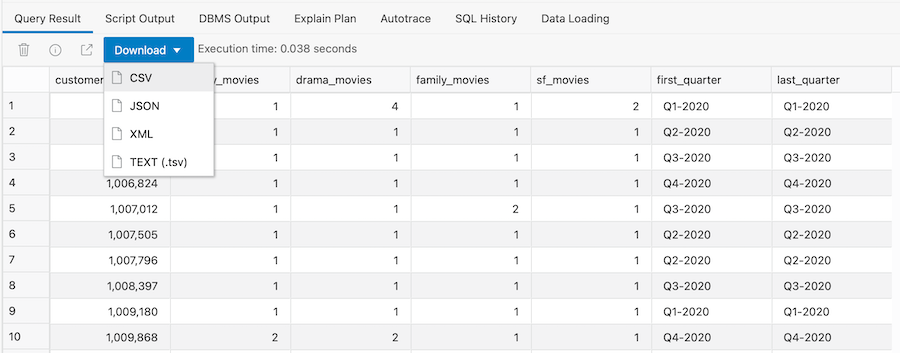
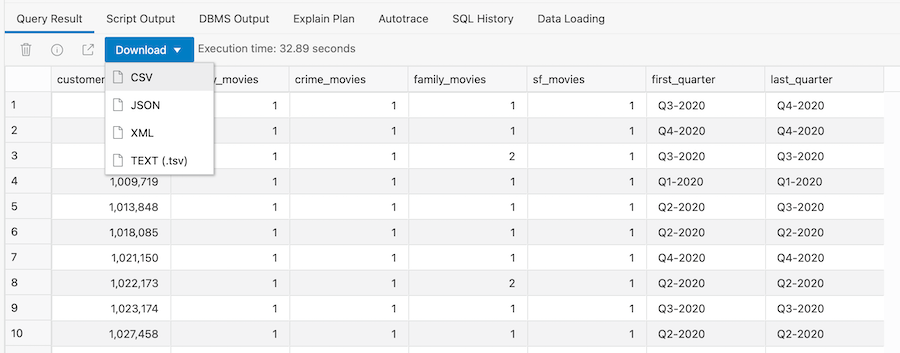
Updates

diff --git a/Workshops/movie-stream-story/working-with-semi-structured-data/working-with-semi-structured-data.md b/Workshops/movie-stream-story/working-with-semi-structured-data/working-with-semi-structured-data.md
@@ -47,8 +47,90 @@ This is in a format known as JSON and you can see that it is organized very diff
 
 Let's build a query for the marketing team that ranks each writer based on the amount of revenue for each film where they were involved, and look for writers who have suddenly had big hits in 2020 compared to other years. This would allow us to create promotion campaigns to bring attention to their earlier movies.
 
+## STEP 1 - Preparing The Data Warehouse Schema
 
-## STEP 1  - Loading JSON Movie Data
+If you have already completed the lab **Analyzing Movie Sales Data** then you can skip this step since this is a repitition of Step 1 in that lab. Jump straight to the next step, Step 2.
+
+The MovieStream data warehouse uses an design approach called a 'star schema'. A star schema is characterized by one or more very large fact tables that contain the primary information in the data warehouse and a number of much smaller dimension tables (or lookup tables), each of which contains information about the entries for a particular attribute in the fact table.
+
+ ![A simple data warehouse star schema.](https://docs.oracle.com/cd/A87860_01/doc/server.817/a76994/schemasa.gif)
+
+The main advantages of star schemas are that they:
+<ul>
+<li>Provide a direct and intuitive mapping between the business entities being analyzed by end users and the schema design.</li>
+<li>Provides highly optimized performance for typical data warehouse queries.</li>
+</ul>
+
+
+One of the key dimensions in the MovieStream data warehouse is **TIME**. Currently the time dimension table has a single column containing just the ids for each day. When doing type data warehouse analysis there is a need to view data across different levels within the time dimension such as week, month, quarter and year. Therefore we need to expand the current time dimension to include these additional levels. 
+
+1. View the time dimension table.
+
+
+    ```
+    <copy>
+    SELECT
+    *  
+    FROM times;</copy>
+    ```
+
+
+**NOTE** The TIMES dimension table has a typical calendar hierarchy where days aggregate to weeks, months, quarters and years.
+
+Querying a data warehouse can involve working with a lot of repetitive SQL. This is where 'views' can be very helpful and very powerful. The code below is used to simplify the queries used throughout this workshop. The main focus here is to introduce the concept of joining tables together to returned a combined resultset.
+
+The code below uses a technique called **INNER JOIN** to join the dimension tables to the fact table.
+
+
+2. Creating a view that joins the GENRE, CUSTOMER and TIME dimension tables with the main fact table CUSTSALES.
+
+    ```
+    <copy>CREATE OR REPLACE VIEW vw_movie_sales_fact AS
+    SELECT 
+    m.day_id,
+    t.day_name,
+    t.day_dow,
+    t.day_dom, 
+    t.day_doy,
+    t.week_wom,
+    t.week_woy,
+    t.month_moy,
+    t.month_name,
+    t.month_aname,  
+    t.quarter_name,  
+    t.year_name,  
+    c.cust_id as customer_id,
+    c.state_province,
+    c.country,
+    c.continent,
+    g.name as genre,
+    m.app,
+    m.device,
+    m.os,
+    m.payment_method,
+    m.list_price,
+    m.discount_type,
+    m.discount_percent,
+    m.actual_price,
+    m.genre_id,
+    m.movie_id
+    FROM custsales m 
+    INNER JOIN times t ON m.day_id = t.day_id 
+    INNER JOIN customer c ON m.cust_id = c.cust_id
+    INNER JOIN genre g ON m.genre_id = g.genre_id;
+    </copy>
+    ```
+There are lots of different types of joins that can be used within a SQL query to combine rows from one table with rows in another table. Typical examples are: 
+
+### A) INNER JOIN
+An inner join, which is sometimes called a simple join, is a join of two or more tables that returns only those rows that satisfy the join condition. In the example above, only rows in the sales fact table will be returned where a corresponding row for day existings in the time dimension table and a corresponding row exists in the customer dimension table and a corresponding row exists in the genre dimension table.
+
+### B) OUTER JOIN
+An outer join extends the result of a simple join. An outer join returns all rows that satisfy the join condition and also returns some or all of those rows from one table for which no rows from the other satisfy the join condition. This join technique is often used with time dimension tables since you wil typically want to see all months or all quarters within a given year even if there were no sales for a specific time period. There is an example of this type of join in the next step.
+
+
+
+## STEP 2  - Loading JSON Movie Data
 
 In the previous labs of this workshop, we have loaded the data we want to use into our data warehouse. Autonomous Data Warehouse also allows you to leave your data in the Object Store and query it directly without having to load it first. This uses a feature called an External Table. There is a whole chapter on this topic in the documentation, [see here](https://docs.oracle.com/en/cloud/paas/autonomous-database/adbsa/query-external.html#GUID-ABF95242-3E04-42FF-9361-52707D14E833), which explains all the different types of file formats (including JSON) that are supported. 
 
@@ -171,7 +253,7 @@ Although queries on external data will not be as fast as queries on database tab
 
     As you can see, the data is shown in its native JSON format, i.e. there are no columns in the table for each identifier (movie_id, sku, list price, and so on). So how can we query this table if there is only one column? 
 
-## STEP 2 - A Simple Query Over JSON Data
+## STEP 3 - A Simple Query Over JSON Data
 
 1. As a first step, let's show you how to query  JSON data using SQL. We can use special notation within our SQL query to convert the content above into a more normal looking table containing columns and rows. This approach is known as Simple Dot Notation and it looks very similar to the way we have constructed previous queries. Here is our first query which you can run in your SQL Worksheet:
 
@@ -215,7 +297,7 @@ Although queries on external data will not be as fast as queries on database tab
 
 Now let's try using some more advanced features that will allow us to convert the list of cast members and crew members into rows and columns of data. These can then be joined with our movie sales data, allowing us to combine unstructured movie JSON data with our structured movie sales data.
 
-## STEP 3 -  Simplifying JSON Queries
+## STEP 4 -  Simplifying JSON Queries
 
 Your Autonomous Data Warehouse includes a number of helper packages that can simplify access to your JSON data. The **JSON_TABLE** function can be used to automatically translate JSON data into a row-column format so you can query the JSON data in exactly the same way as our movie sales data.
 
@@ -283,7 +365,7 @@ Your Autonomous Data Warehouse includes a number of helper packages that can sim
 
 We can now use this view as the launch point for doing more analysis!
 
-## STEP 4 -  Building A More Sophisticated JSON Query
+## STEP 5 -  Building A More Sophisticated JSON Query
 
 In this query, we are using the **JSON_TABLE** function again, to convert our JSON data into a more natural row-column resultset.
 
@@ -304,20 +386,9 @@ In this query, we are using the **JSON_TABLE** function again, to convert our JS
 
     ![Query results showing directors for each movie](images/sql-analytics-lab5-step4-substep2.png)
 
-## STEP 5 - Combining JSON Data And Relational Data
+## STEP 6 - Combining JSON Data And Relational Data
 
-1. Assuming we want to know how much revenue each movie made in each of the years when it was available, we can use a much simpler query, somthing like this:
-
-    ```
-    SELECT
-    movie_id,
-    year,
-    sum(ACTUAL_PRICE) as revenue
-    FROM movie_sales_fact
-    GROUP BY movie_id, year;
-    ```
-
-2. If we combine this result set with the previous query against our JSON data, we can see the total revenue by year for each movie director and find the top 5 movie directors within each year. To do this, we can create a query that joins the JSON data set with our movie sales fact table via the `movie_id` column. Run this query in your SQL Worksheet:
+1. If we combine this result set with the previous query against our JSON data, we can see the total revenue by year for each movie director and find the top 5 movie directors within each year. To do this, we can create a query that joins the JSON data set with our movie sales fact table via the `movie_id` column. Run this query in your SQL Worksheet:
 
     ```
     <copy>SELECT
@@ -325,47 +396,47 @@ In this query, we are using the **JSON_TABLE** function again, to convert our JS
     jt.title,
     jt.job,
     jt.crew,
-    f.year,
-    sum(f.actual_price) as revenue
-    FROM movie_sales_fact f, json_movie_view jt
+    f.year_name,
+    SUM(f.actual_price) as revenue
+    FROM vw_movie_sales_fact f
+    JOIN json_movie_view jt ON jt.movie_id = f.movie_id 
     WHERE jt.job = 'director'
-    AND f.year = 2020
-    AND jt.movie_id = f.movie_id
-    GROUP BY jt.movie_id, jt.title, jt.job, jt.crew, f.year
+    AND f.year_name = 2020
+    GROUP BY jt.movie_id, jt.title, jt.job, jt.crew, f.year_name
     ORDER BY 6 desc;</copy>
     ```
 
-3. the output will be shown in the Query Result window:
+2. the output will be shown in the Query Result window:
 
-    ![Query result of combining queries](images/sql-analytics-lab5-step5-substep3.png)
+    ![Query result of combining queries](images/lab-9-step-5-substep-2.png)
 
-## STEP 6 - Ranking Directors Based On Quarterly Movie Revenue
+## STEP 7 - Ranking Directors Based On Quarterly Movie Revenue
 
 1. We can extend the query by adding a ranking calculation, broken out by quarter within each year, to determine how much each director's films contributed to MovieStream's overall revenue. Note that we are reusing techniques from the previous lab, specifically SQL's window functions. The last column ranks each director based on the annual revenue of his or her movies.
 
     ```
     <copy>SELECT
-    f.year,
+    f.year_name,
     f.quarter_name,
     jt.movie_id,
     jt.title,
     jt.job,
     jt.crew,
-    sum(f.actual_price) as revenue,
-    RANK() OVER (PARTITION BY f.quarter_name order by sum(f.actual_price) desc) as rank_rev
-    FROM movie_sales_fact f, json_movie_view jt
+    SUM(f.actual_price) AS revenue,
+    RANK() OVER (PARTITION BY f.quarter_name ORDER BY SUM(f.actual_price) desc) as rank_rev
+    FROM vw_movie_sales_fact f
+    JOIN json_movie_view jt ON jt.movie_id = f.movie_id
     WHERE jt.job = 'director'
-    AND f.year= 2020
-    AND jt.movie_id = f.movie_id
-    GROUP BY f.year, f.quarter_name, jt.movie_id, jt.title, jt.job, jt.crew
+    AND f.year_name = 2020
+    GROUP BY jt.movie_id, jt.title, jt.job, jt.crew, f.year_name, f.quarter_name
     ORDER BY 1,2,7 desc;</copy>
     ```
 
 2. The results should show that our top grossing directors in Q1 were Jennifer Lee and Chris Buck with the film Frozen II:
 
-    ![Query result showing top grossing directors](images/sql-analytics-lab5-step6-substep2.png)
+    ![Query result showing top grossing directors](images/lab-9-step-6-substep-2.png)
 
-## STEP 7 - Finding The Top 5 Directors Based On Revenue
+## STEP 8 - Finding The Top 5 Directors Based On Revenue
 
 1. The final part of this query is to add a filter so it only returns the top 5 directors in each quarter:
 
@@ -394,7 +465,7 @@ In this query, we are using the **JSON_TABLE** function again, to convert our JS
 
 2. This should return the following results:
 
-    ![Query result returning top 5 directors in each year](images/sql-analytics-lab5-step7-substep2.png)
+    ![Query result returning top 5 directors in each year](images/lab-9-step-7-substep-2.png)
 
 ## Recap
 
@@ -412,4 +483,4 @@ Please *proceed to the next lab*.
 
 - **Author** - Keith Laker, ADB Product Management
 - **Adapted for Cloud by** - Richard Green, Principal Developer, Database User Assistance
-- **Last Updated By/Date** - Keith Laker, July 2021
+- **Last Updated By/Date** - Keith Laker, August 3, 2021

diff --git a/Workshops/movie-stream-story/targeting-customers/targeting-customers.md b/Workshops/movie-stream-story/targeting-customers/targeting-customers.md
@@ -151,7 +151,7 @@ Now that we understand how our pattern matching query is working, we can extend 
     AND FIRST(family.quarter_name) = LAST(family.quarter_name)
     ```
 
-**Note:** We are defining "family-related" genres as comedy, crime and drama as you can see in the above definition. The above means we are now looking for rows with at least one comedy movie, at least one drama movie and at least one family movie within a given quarter. Essentially we are looking for a specific pattern of movie streaming.
+**Note:** We are defining "family-related" genres as comedy, crime and drama as you can see in the above definition. The above means we are now looking for rows with at least one comedy movie, a crime movie and at least one family movie within a given quarter. Essentially we are looking for a specific pattern of movie streaming.
 
 1. If we insert the above into our first pattern matching query, we can then paste the following code into our SQL Worksheet:
 
@@ -167,17 +167,17 @@ Now that we understand how our pattern matching query is working, we can extend 
     last(family.quarter_name) AS last_quarter,
     count(movie_id) AS count_movies
     ALL ROWS PER MATCH
-    PATTERN (comedy+ drama family+)
+    PATTERN (comedy+ crime family+)
     DEFINE
     comedy as genre = 'Comedy',
-    drama as genre = 'Drama',
+    crome as genre = 'Crime',
     family as genre = 'Family'
     AND family.quarter_name = LAST(comedy.quarter_name)
     ) mr
     order by mr.customer_id, match_number;</copy>
     ```
 
-2. This returns around 14,718 customers:
+2. This returns around 2,765 customers:
 
 Before we do any more work on this query, we should check-in with our marketing team to see if this number is within the range they were expecting.
 
@@ -185,14 +185,14 @@ Before we do any more work on this query, we should check-in with our marketing 
 
 A quick Zoom call with the marketing team reveals that they are really pleased to have the list of customers so quickly! However, they think the list needs more tweaking. Ideally, they want to target a much smaller list of customers with the first round of this campaign and they need to find customers who like sci-fi movies! So we need to identify only those customers that have more than a *specific* interest in watching family-related movies, but also like to watch sci-fi movies! 
 
-How can you adapt the previous query to pick out those customers that really enjoy family and sci-fi movies?  All we need to do is tweak our pattern statement! This means our pattern definition will now look like this:
+How can you adapt the previous query to pick out those customers that really enjoy family style movies and sci-fi movies?  All we need to do is tweak our pattern statement! This means our pattern definition will now look like this:
 
 
     ```
-    PATTERN (comedy+ drama+ family+ horror scifi+)
+    PATTERN (comedy+ crime family+ scifi+)
     DEFINE
     comedy as genre = 'Comedy',
-    drama as genre = 'Drama',
+    crime as genre = 'Crime',
     family as genre = 'Family',
     AND family.quarter_name = LAST(comedy.quarter_name)
     scifi as genre = 'Sci-Fi'
@@ -218,7 +218,7 @@ How can you adapt the previous query to pick out those customers that really enj
     );</copy>
     ```
 
-2. The answer is 424. This should be more in line with what the marketing team is expecting so they can run a quick test campaign to gauge the level of feedback.
+2. The answer is 314. This should be more in line with what the marketing team is expecting so they can run a quick test campaign to gauge the level of feedback.
 
 
 3. To help them validate this smaller list of customers, we will add some additional information into our results by showing whether a movie was matched by our pattern as a family or sci-fi movie (this is shown in the **`classifier`** column.)
@@ -227,7 +227,7 @@ How can you adapt the previous query to pick out those customers that really enj
     <copy>SELECT
     customer_id,
     comedy_movies,
-    drama_movies,
+    crime_movies,
     family_movies,
     sf_movies,
     first_quarter,
@@ -239,14 +239,14 @@ How can you adapt the previous query to pick out those customers that really enj
     first(family.quarter_name) AS first_quarter,
     last(scifi.quarter_name) AS last_quarter,
     count(comedy.movie_id) AS comedy_movies,
-    count(drama.movie_id) AS drama_movies,
+    count(crime.movie_id) AS crime_movies,
     count(family.movie_id) AS family_movies,
     count(scifi.movie_id) AS sf_movies
     ONE ROW PER MATCH
-    PATTERN (comedy+ drama+ family+  scifi+),
+    PATTERN (comedy+ crime family+  scifi+)
     DEFINE
     comedy as genre = 'Comedy',
-    drama as genre = 'Drama',
+    crime as genre = 'Crime',
     family as genre = 'Family'
     AND family.quarter_name = LAST(comedy.quarter_name),
     scifi as genre = 'Sci-Fi'
@@ -344,14 +344,14 @@ In this context, we need to search the column genre for a specific string such a
     first(family.quarter_name) AS first_quarter,
     last(scifi.quarter_name) AS last_quarter,
     count(comedy.movie_id) AS comedy_movies,
-    count(drama.movie_id) AS drama_movies,
+    count(crime.movie_id) AS crime_movies,
     count(family.movie_id) AS family_movies,
     count(scifi.movie_id) AS sf_movies
     ONE ROW PER MATCH
-    PATTERN (comedy+ drama+ family+  scifi+ quarter)
+    PATTERN (comedy+ crime family+  scifi+ quarter)
     DEFINE
     comedy AS INSTR(genre, 'Comedy',1,1) > 0,
-    drama AS INSTR(genre, 'Drama',1,1) > 0,
+    crime AS INSTR(genre, 'Crime',1,1) > 0,
     family AS INSTR(genre, 'Family',1,1) > 0
     AND family.quarter_name = LAST(comedy.quarter_name),
     scifi AS INSTR(genre,'Sci-Fi',1,1) > 0
